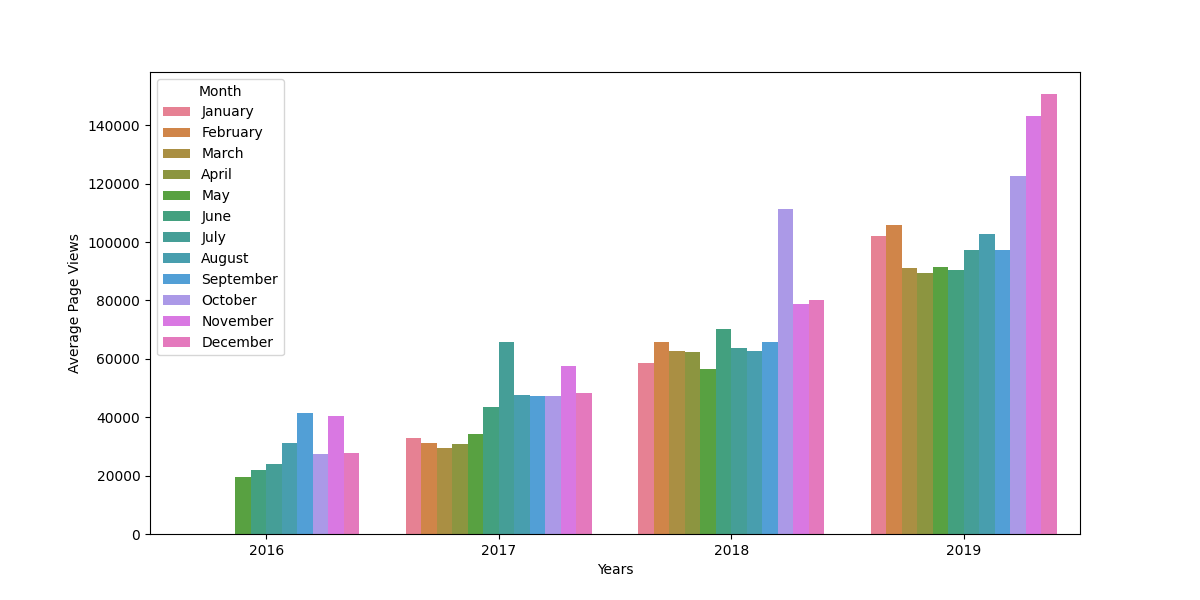
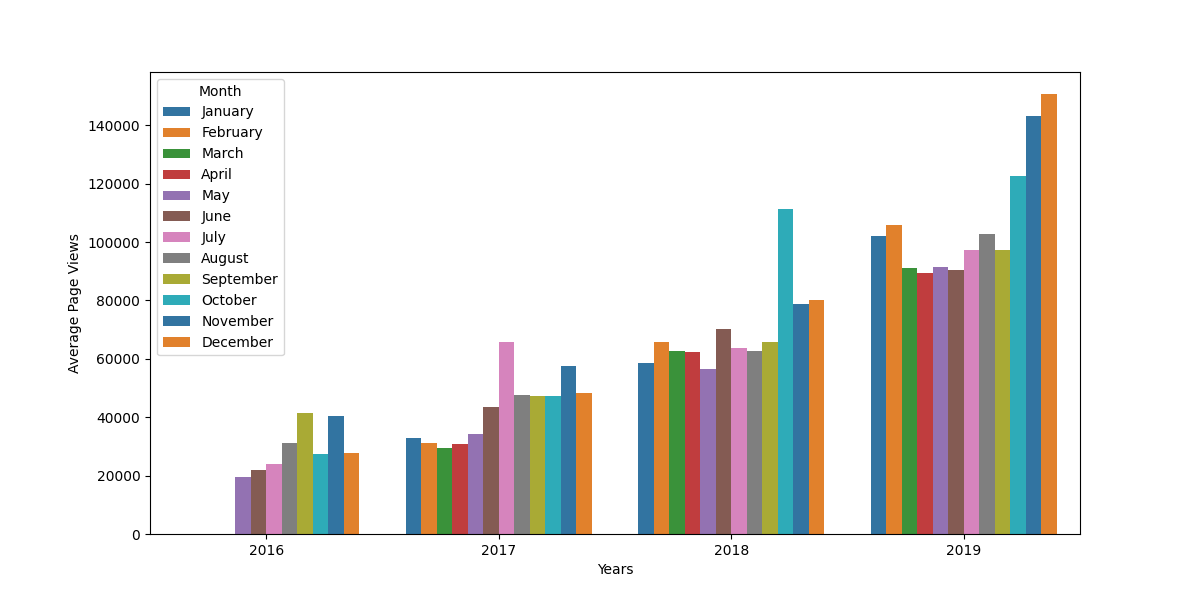
Added colour to graph

diff --git a/time_series_visualizer.py b/time_series_visualizer.py
@@ -40,6 +40,7 @@ def draw_bar_plot():
                 hue = 'Month',
                 data = df_bar,
                 hue_order = hue_order,
+                palette="tab10",
                 errorbar=('ci', 0)
                 )
 
